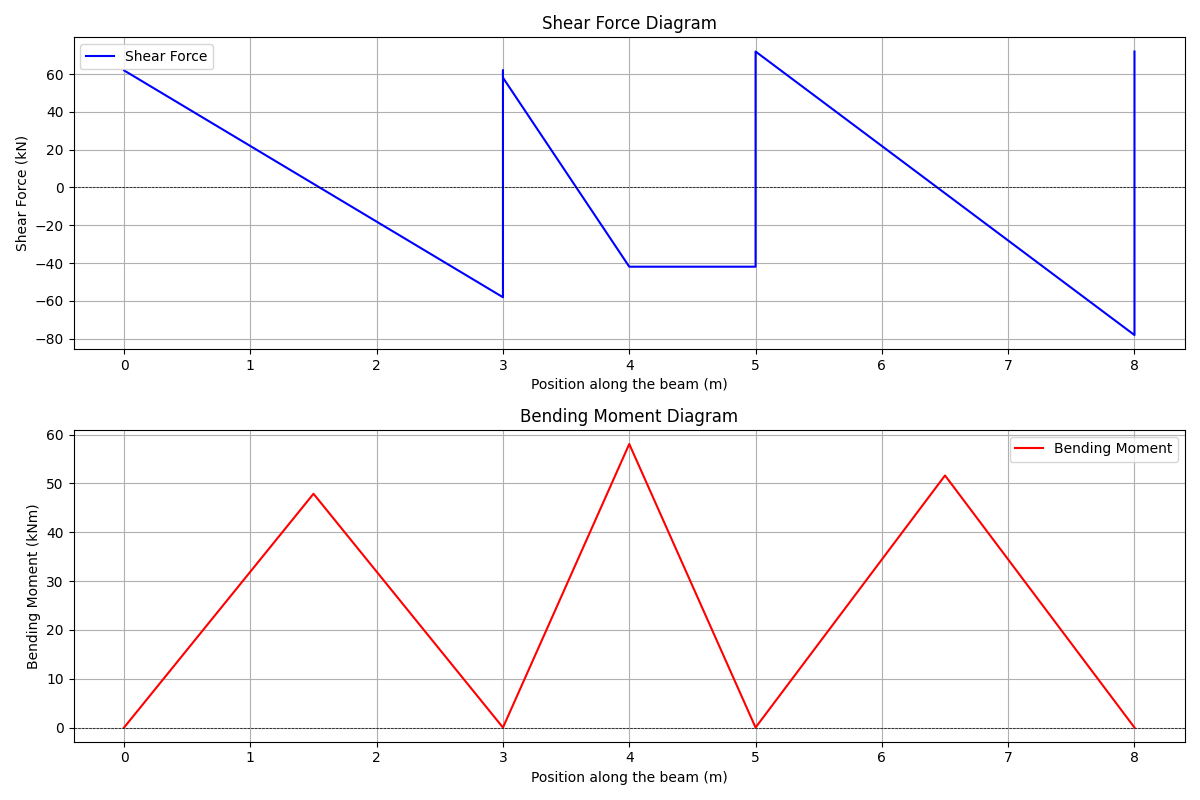
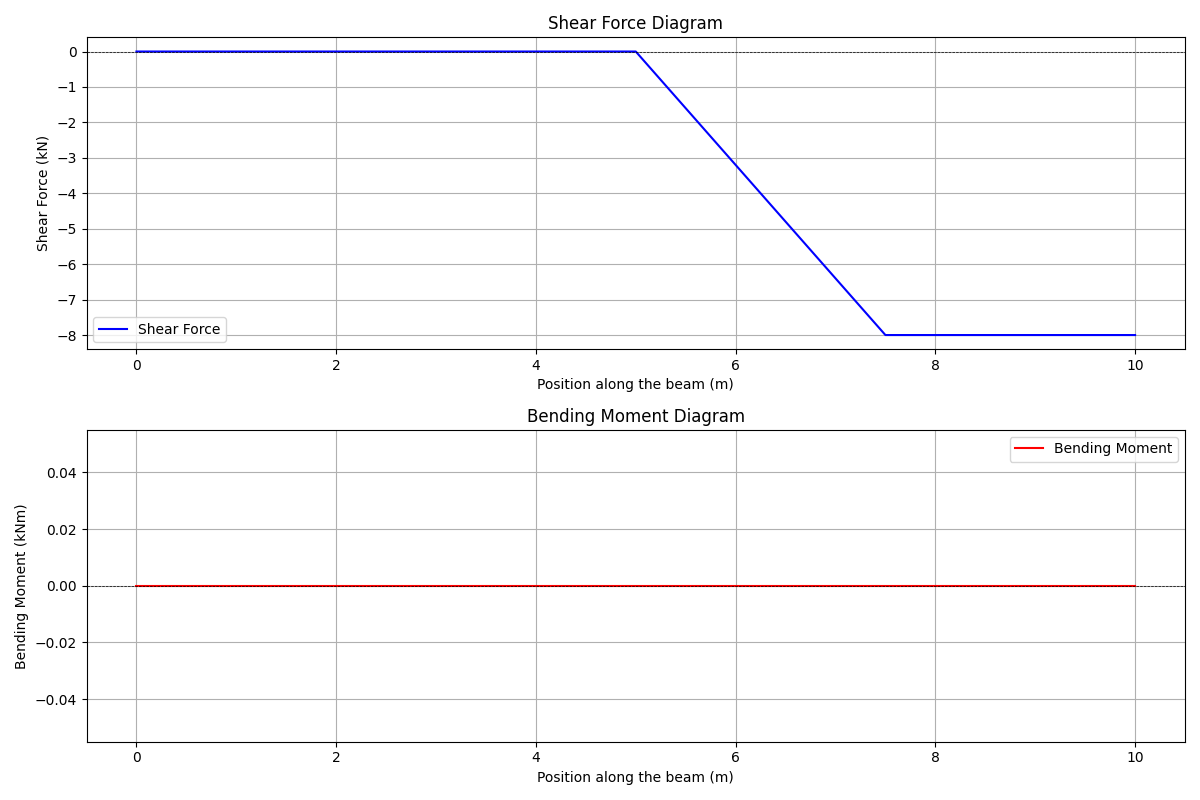
added requirements.txt

diff --git a/backend/sample.py b/backend/sample.py
@@ -307,8 +307,8 @@ class BeamAnalysis:
         # Add other components like reactions and plotting here as needed.
 
 # Main program
-beam = BeamAnalysis()
-beam.analyze()
-# if __name__ == "__main__":
-#     beam = BeamAnalysis()
-#     beam.analyze()
+# beam = BeamAnalysis()
+# beam.analyze()
+if __name__ == "__main__":
+    beam = BeamAnalysis()
+    beam.analyze()

diff --git a/backend/testing.py b/backend/testing.py
@@ -101,7 +101,7 @@ class BeamAnalysis:
 
                 elif load_type == "point_distance":
                     p = load["magnitude"]
-                    a = load["position"]
+                    a = load["a"]
                     b = l - a
                     fem["AB"] += -p * a * b**2 / l**2
                     fem["BA"] += p * a**2 * b / l**2
